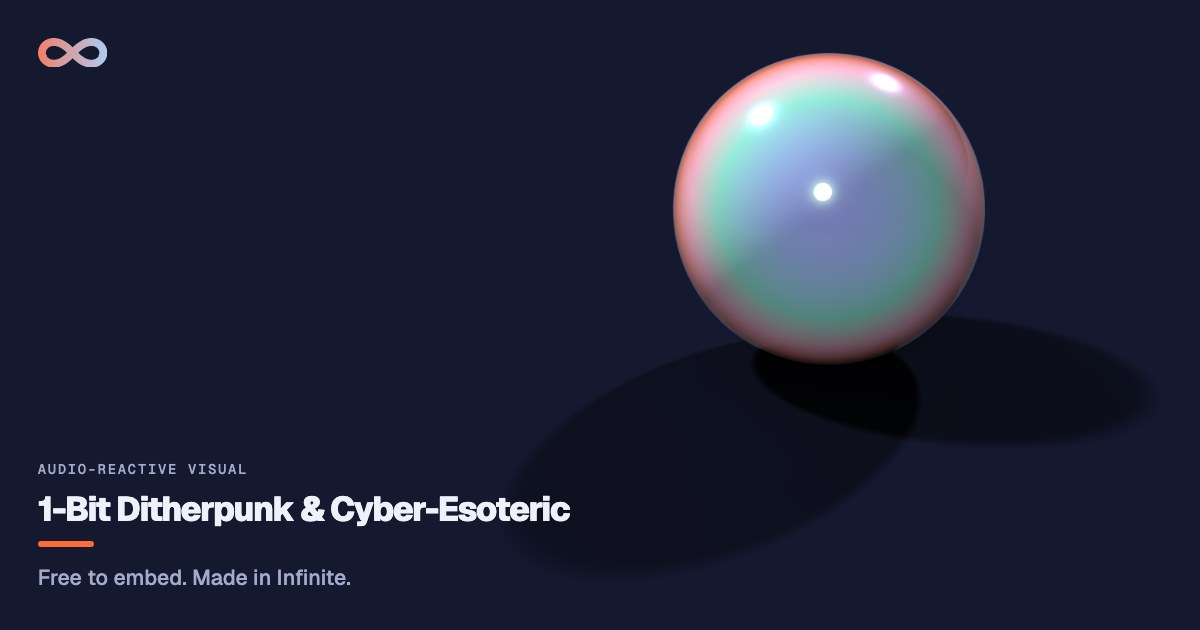
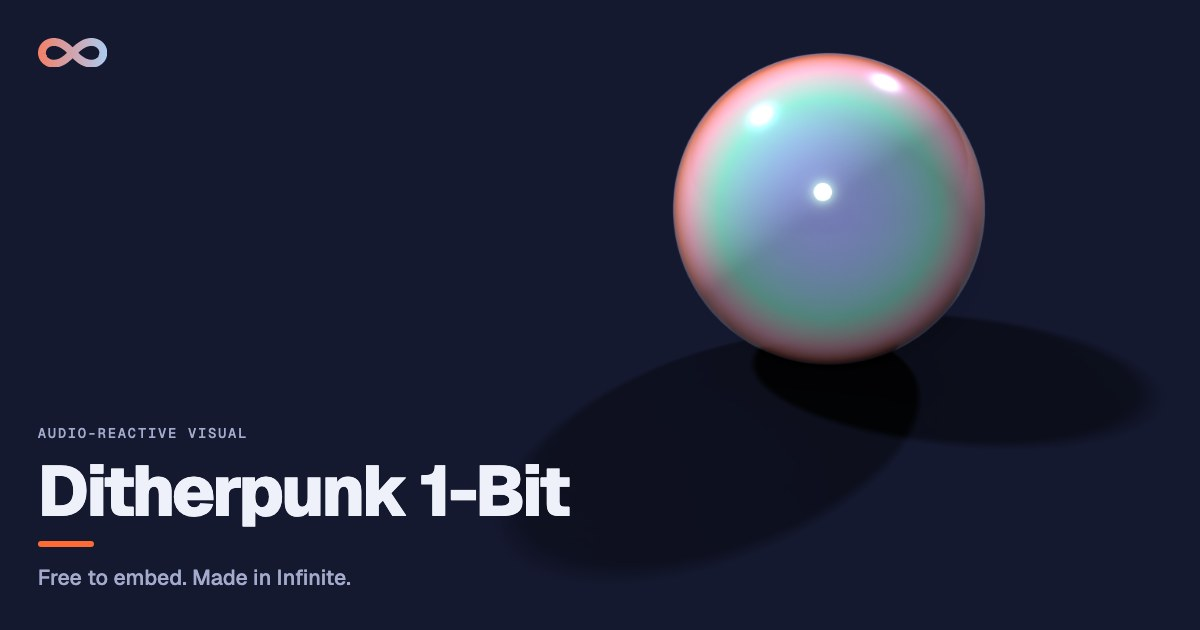
website: update og cards and seo links

Changed region(s): [[0.0308, 0.7238, 0.4933, 0.8444], [0.0308, 0.6635, 0.2158, 0.6937]]

diff --git a/website/embeds/schlieren-caustics-refraction-cusps.html b/website/embeds/schlieren-caustics-refraction-cusps.html
@@ -11,7 +11,7 @@
   <meta property="og:title" content="Schlieren Caustics Refraction Cusps: audio-reactive visual">
   <meta property="og:description" content="Audio-reactive optical schlieren caustic visualizer. Bass focuses the nephroid caustic envelope, mids shift refractive dispersion, and highs sharpen the...">
   <meta property="og:url" content="https://infinitedevices.org/embeds/schlieren-caustics-refraction-cusps.html">
-  <meta property="og:image" content="https://infinitedevices.org/assets/og-image.jpg">
+  <meta property="og:image" content="https://infinitedevices.org/assets/og/embed-schlieren-caustics-refraction-cusps.jpg">
   <meta name="twitter:card" content="summary_large_image">
   <script type="application/ld+json">{"@context": "https://schema.org", "@type": "CreativeWork", "name": "Schlieren Caustics Refraction Cusps", "description": "Audio-reactive optical schlieren caustic visualizer. Bass focuses the nephroid caustic envelope, mids shift refractive dispersion, and highs sharpen the...", "url": "https://infinitedevices.org/embeds/schlieren-caustics-refraction-cusps.html", "image": "https://infinitedevices.org/assets/og-image.jpg", "genre": "Audio-reactive visual", "isAccessibleForFree": true, "author": {"@type": "Person", "name": "Naman Soni"}, "isPartOf": {"@type": "CollectionPage", "name": "Infinite embeds", "url": "https://infinitedevices.org/embeds/"}}</script>
   <style>

diff --git a/website/embeds/schlieren-caustics-thermal-plume.html b/website/embeds/schlieren-caustics-thermal-plume.html
@@ -11,7 +11,7 @@
   <meta property="og:title" content="Schlieren Caustics Thermal Plume: audio-reactive visual">
   <meta property="og:description" content="Audio-reactive convective schlieren plume visualizer. Bass drives thermal turbulence, mids sweep refractive fringe density, and highs ignite the ivory...">
   <meta property="og:url" content="https://infinitedevices.org/embeds/schlieren-caustics-thermal-plume.html">
-  <meta property="og:image" content="https://infinitedevices.org/assets/og-image.jpg">
+  <meta property="og:image" content="https://infinitedevices.org/assets/og/embed-schlieren-caustics-thermal-plume.jpg">
   <meta name="twitter:card" content="summary_large_image">
   <script type="application/ld+json">{"@context": "https://schema.org", "@type": "CreativeWork", "name": "Schlieren Caustics Thermal Plume", "description": "Audio-reactive convective schlieren plume visualizer. Bass drives thermal turbulence, mids sweep refractive fringe density, and highs ignite the ivory...", "url": "https://infinitedevices.org/embeds/schlieren-caustics-thermal-plume.html", "image": "https://infinitedevices.org/assets/og-image.jpg", "genre": "Audio-reactive visual", "isAccessibleForFree": true, "author": {"@type": "Person", "name": "Naman Soni"}, "isPartOf": {"@type": "CollectionPage", "name": "Infinite embeds", "url": "https://infinitedevices.org/embeds/"}}</script>
   <style>
